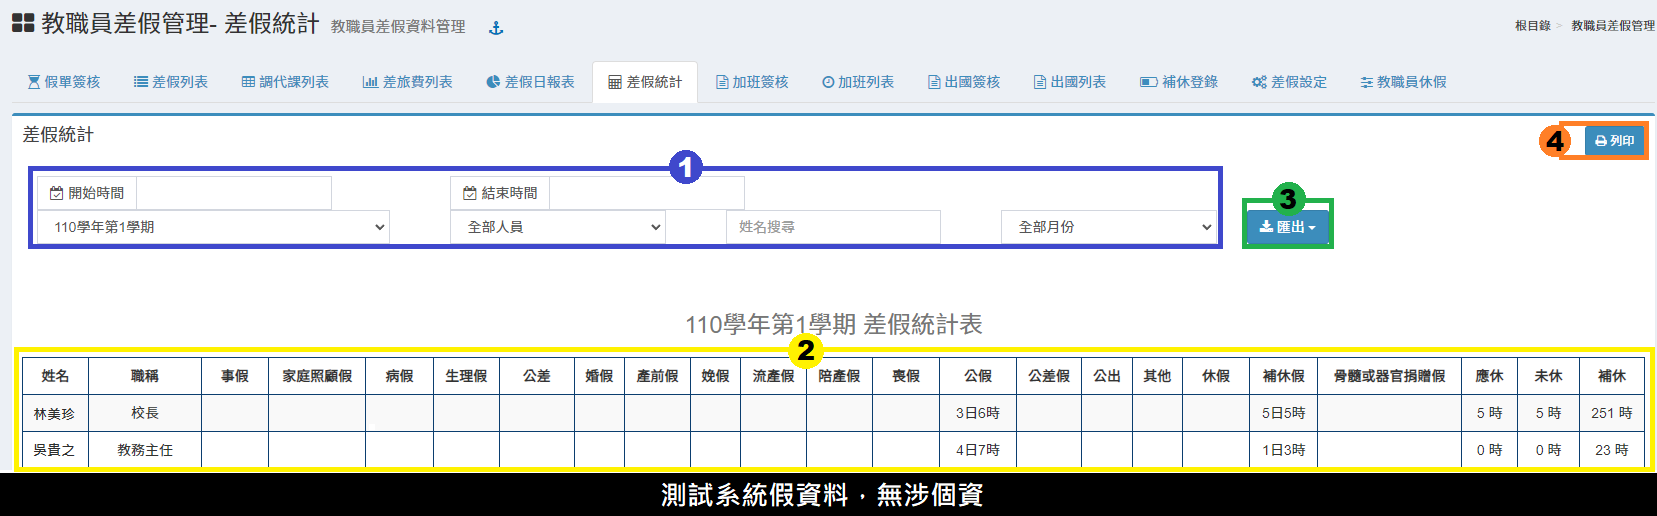
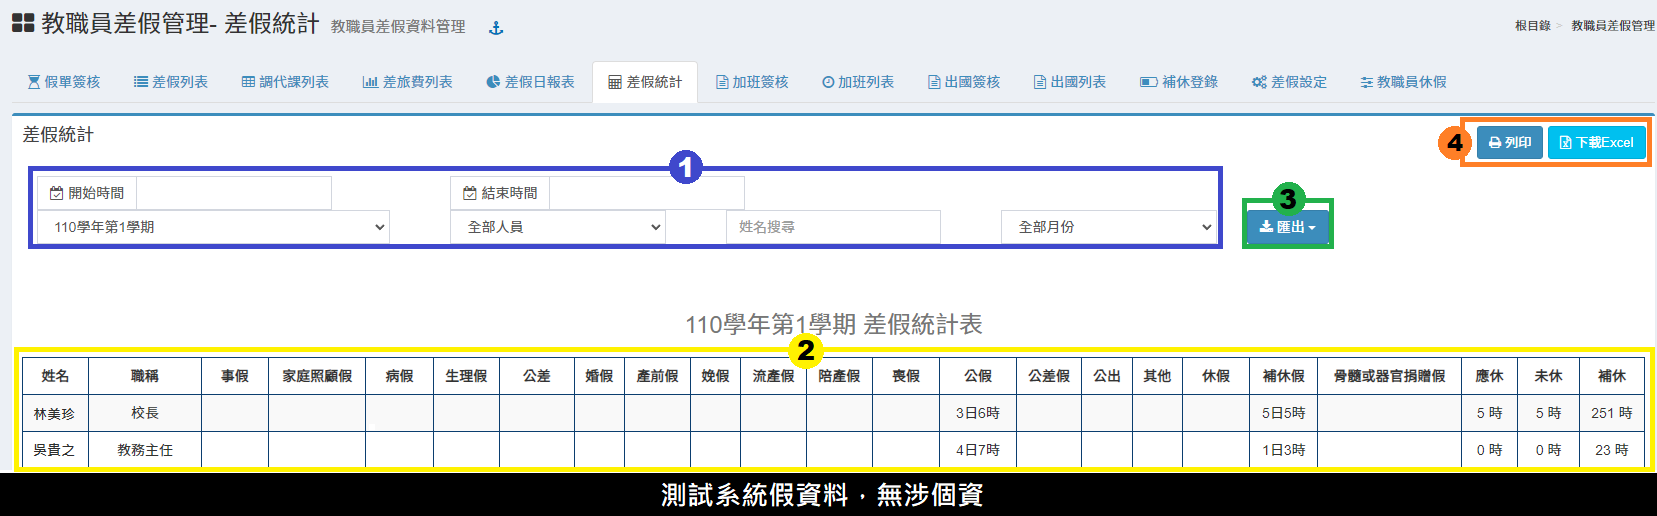
GitBook: [#352] 更新-差假管理-差假統計-新增匯出EXCEL檔功能

Changed region(s): [[0.8618, 0.2171, 1.0, 0.3411]]

diff --git a/xiao-hang-zheng/jiao-zhi-yuan-cha-jia-cha-jia-guan-li.md b/xiao-hang-zheng/jiao-zhi-yuan-cha-jia-cha-jia-guan-li.md
@@ -283,8 +283,8 @@
 
 1. 選擇統計之**「學年／曆年」**、**「教師職員身分」**、**「假單月份」**。或輸入統計**「起訖時間」**、**「教職員姓名」**。
 2. 此處僅會計算已登錄差假紀錄。
-3. 可匯出**「人事行政總處格式之 CSV 檔(差假)」、「人事行政總處格式之 JSON檔(差假與加班)」、「未休假加班費清冊(兼行政教師)」、「未休假加班費清冊(職員)」**
-4. 可**「列印」**統計結果。
+3. 可匯出**「人事行政總處格式之 CSV 檔(差假)」、「人事行政總處格式之 JSON檔(差假與加班)」、「未休假加班費清冊(兼行政教師)」、「未休假加班費清冊(職員)」**。
+4. 可**「列印」**及**「下載」**統計結果。
 
 {% hint style="warning" %}
 * 匯出兼行政教師未休假加班費印領清冊：請先選擇「**學年度」**。\
